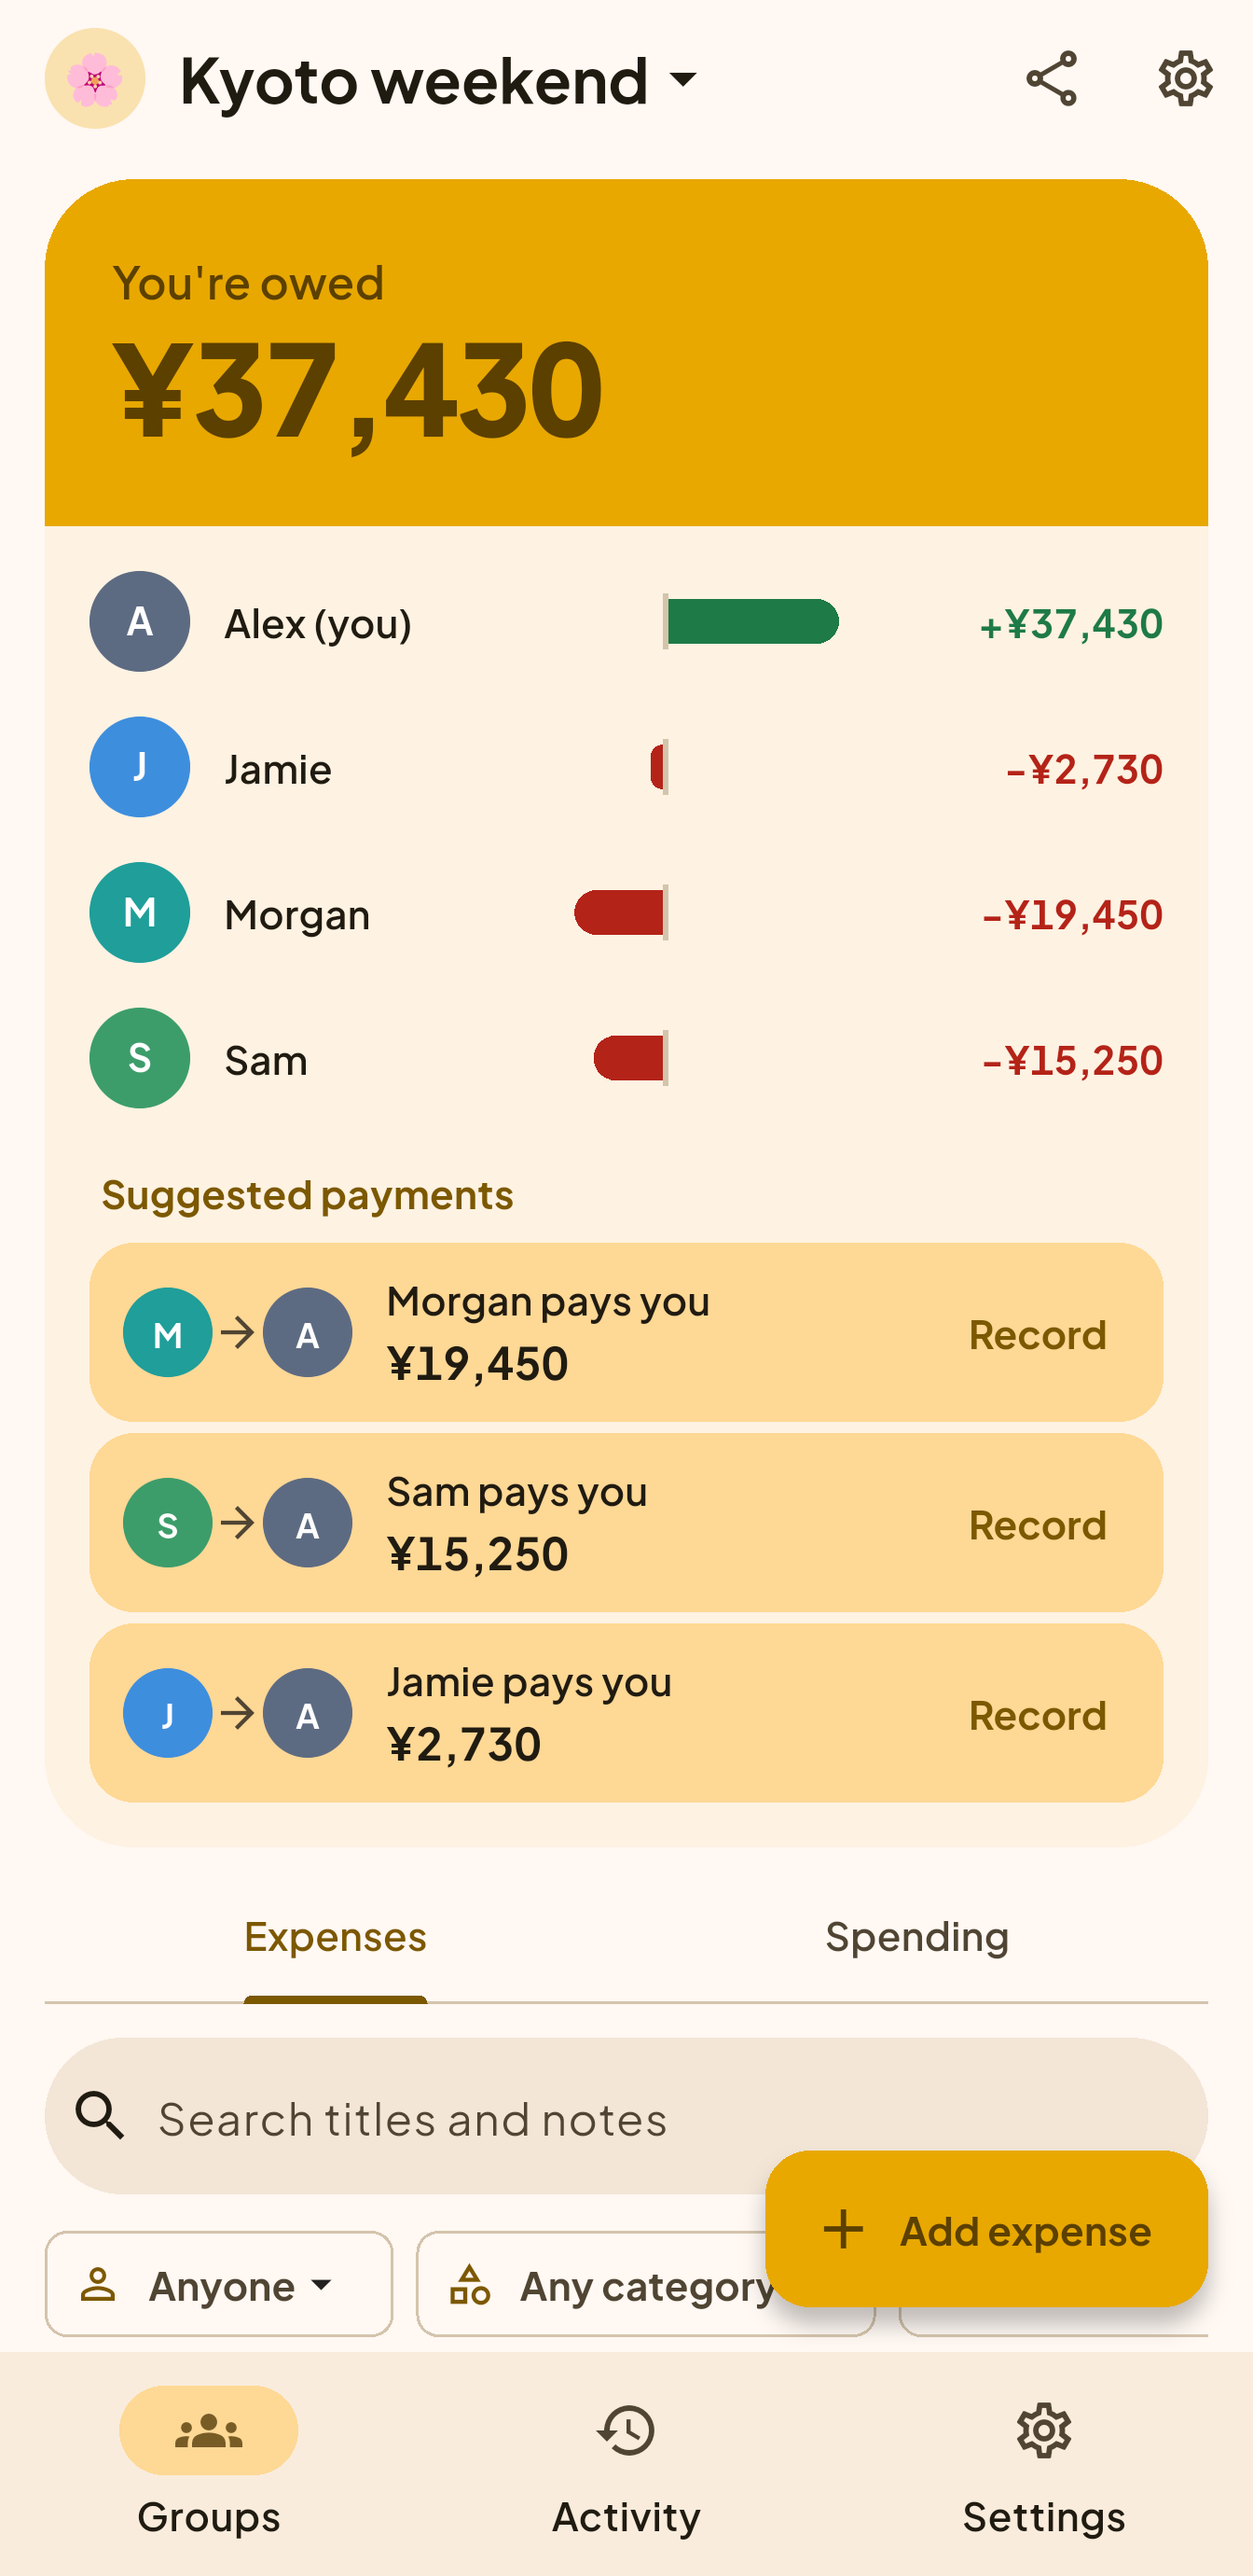
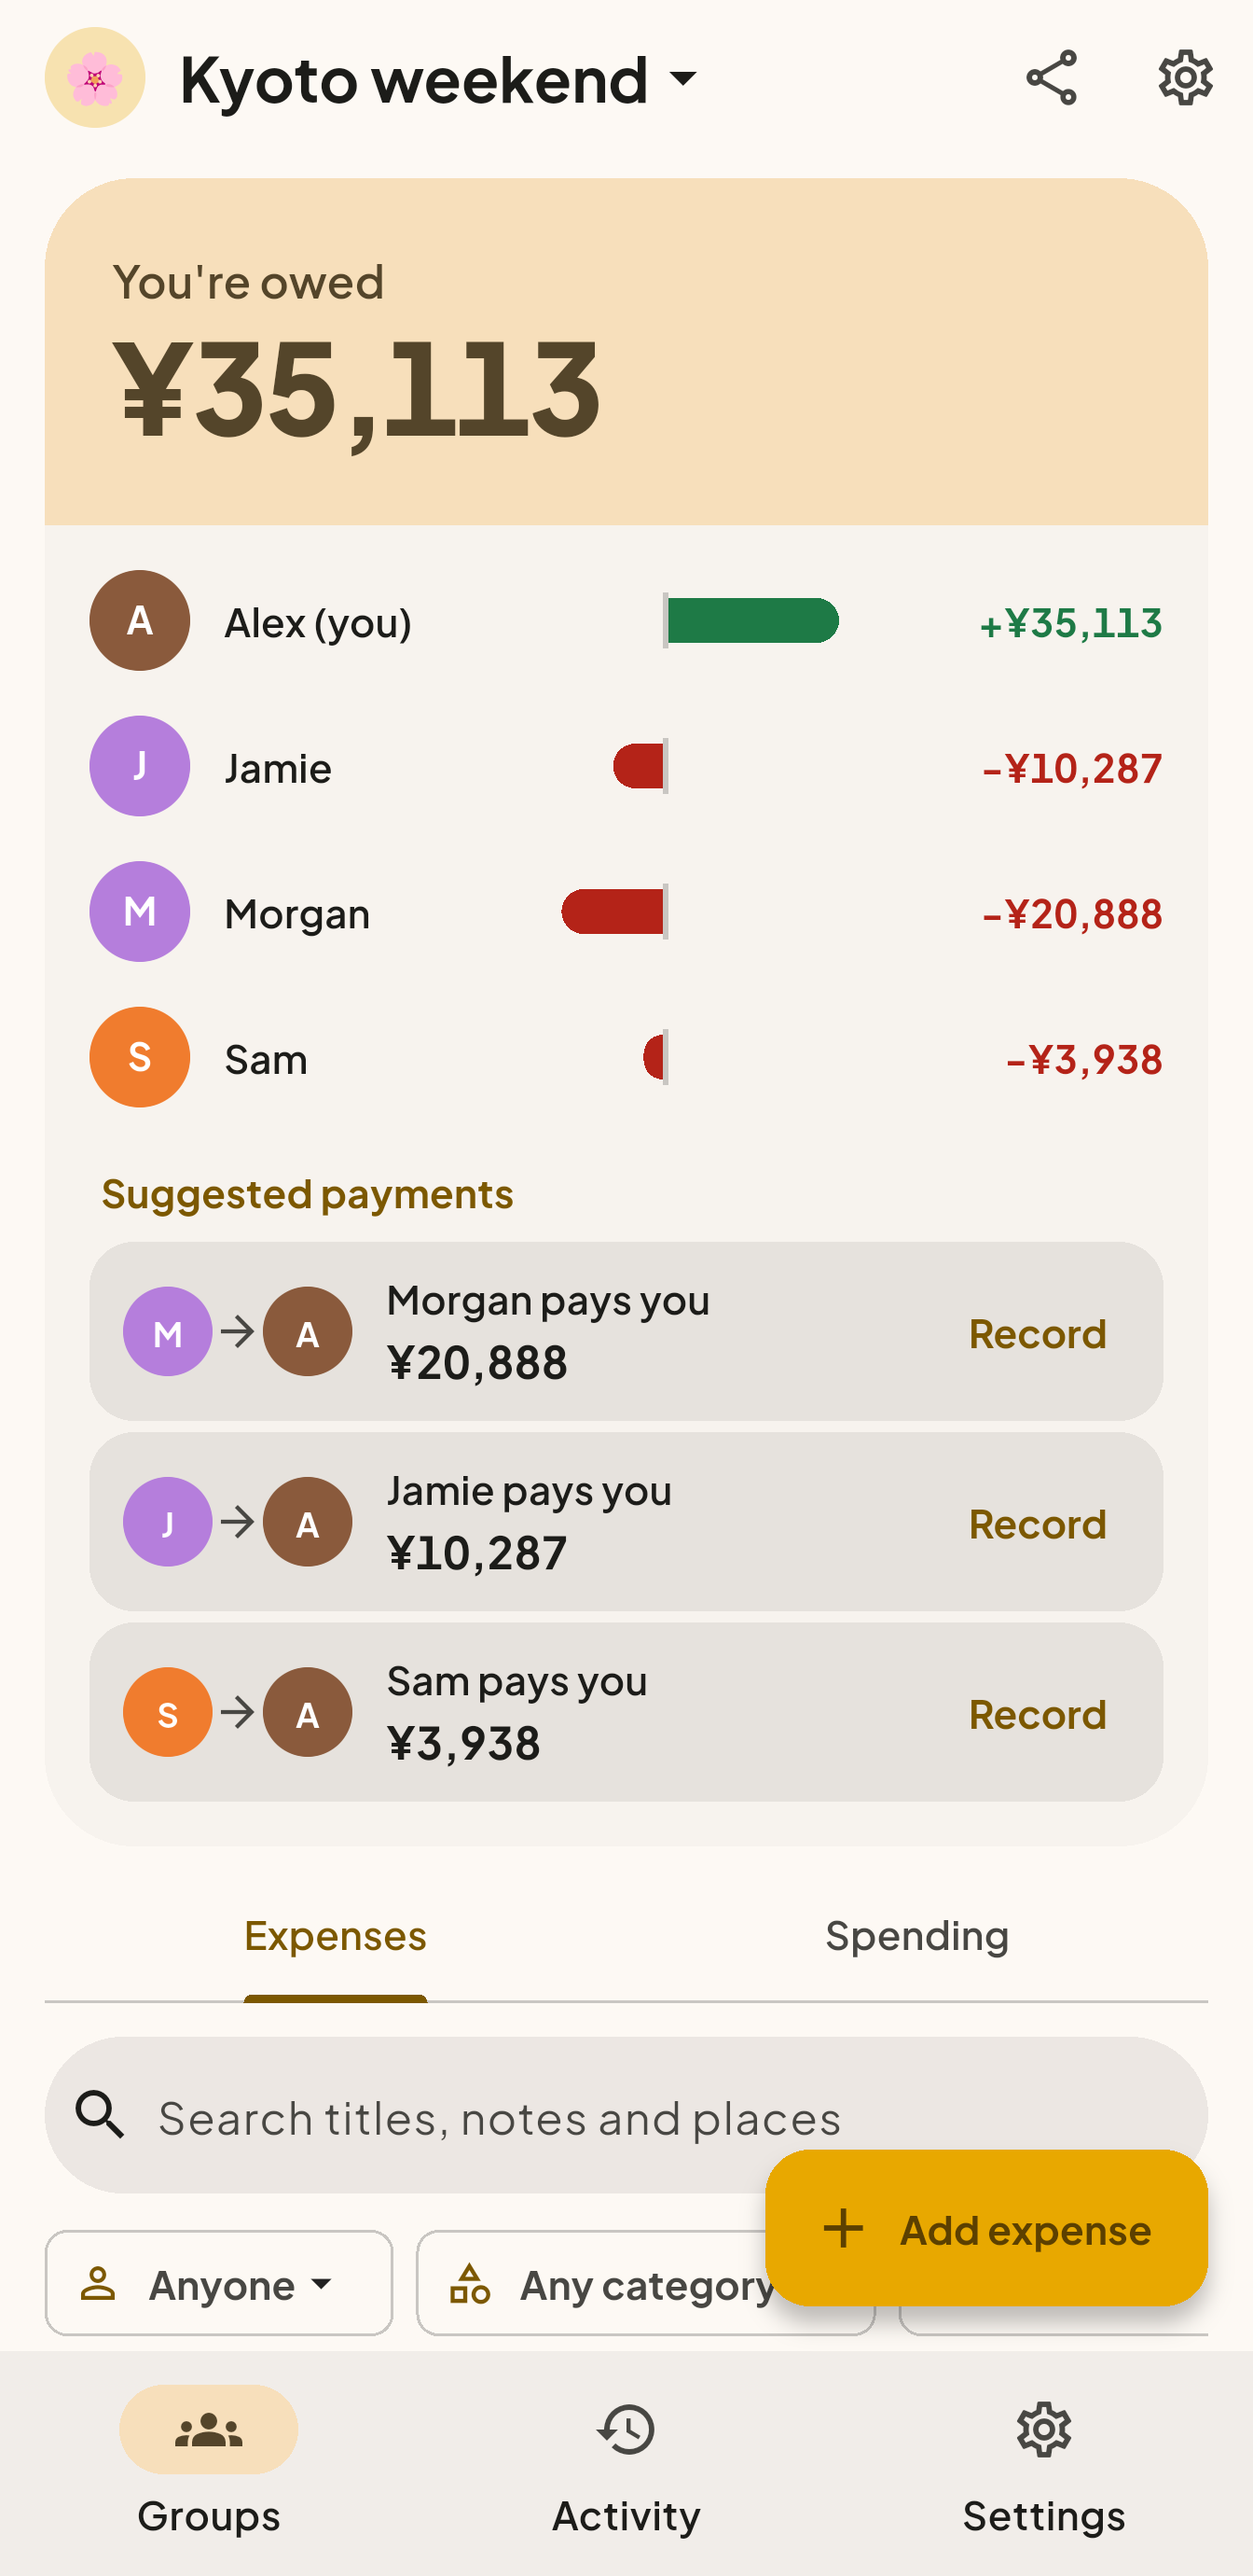
Refresh the README and its screenshots
Retake the Android screenshots from the current build, add one of an
expense paid in another currency, and group the features by what they
help with.

diff --git a/README.md b/README.md
@@ -1,62 +1,110 @@
 <p align="center">
-  <img src="app/web/icons/Icon-192.png" width="88" height="88" alt="Balnana logo">
+  <img src="app/web/icons/Icon-192.png" width="96" height="96" alt="Balnana logo">
 </p>
 
 <h1 align="center">Balnana</h1>
 
-<p align="center"><strong>Split group expenses. Settle up with fewer payments.</strong></p>
+<p align="center">
+  <strong>Split group expenses. Settle up with fewer payments.<br>On a server you own.</strong>
+</p>
 
-<p align="center">Android &amp; web · Self-hosted · AGPL-3.0</p>
+<p align="center">
+  <img src="https://img.shields.io/badge/Android-3DDC84?logo=android&logoColor=white" alt="Android">
+  <img src="https://img.shields.io/badge/Web-4285F4?logo=googlechrome&logoColor=white" alt="Web">
+  <img src="https://img.shields.io/badge/Self--hosted-Docker-2496ED?logo=docker&logoColor=white" alt="Self-hosted with Docker">
+  <a href="LICENSE"><img src="https://img.shields.io/badge/License-AGPL--3.0-E8A800" alt="AGPL-3.0"></a>
+  <img src="https://img.shields.io/badge/Status-early%20development-lightgrey" alt="Early development">
+</p>
 
-Balnana splits shared costs for trips, flatmates and nights out. Share a private
-link with your group, record who paid for what, and Balnana works out who owes
-whom and the payments that settle everyone up. You run it on your own server.
+<p align="center">
+  <a href="#quick-start">Quick start</a> ·
+  <a href="#features">Features</a> ·
+  <a href="#built-with">Built with</a> ·
+  <a href="#license">License</a>
+</p>
 
-> Status: early development, preparing the first release.
+---
+
+Trips, flatmates, nights out: someone always pays, and someone always has to
+work out who owes what. **Balnana does the maths.** Share a private link with
+your group, add expenses as they happen, and Balnana tells everyone where they
+stand and the few payments that settle it all.
+
+No ads, no tracking, no subscription and no one else's cloud. Your group's
+money stays on your server.
+
+> **Status:** early development, preparing the first release.
 
 ## A weekend in Kyoto
 
-Four friends, one weekend and ¥123,400 in shared costs. Every purchase is
-tracked, every balance is clear, and the statistics show where the money went.
+Four friends, three days and ¥130,750 in shared costs, from the guesthouse to
+a kimono rental booked in dollars. Here is how that looks in Balnana.
 
 <table>
   <tr>
-    <th>Keep track of expenses</th>
-    <th>See how to settle up</th>
-    <th>Explore your spending</th>
+    <th width="25%">Every expense in one place</th>
+    <th width="25%">Who owes whom, at a glance</th>
+    <th width="25%">Where the money went</th>
+    <th width="25%">Paid abroad? No problem</th>
   </tr>
   <tr>
-    <td><img src="assets/screenshots/expenses.png" width="260" alt="Kyoto weekend expense list with categorized meals, transport and activities"></td>
-    <td><img src="assets/screenshots/balances.png" width="260" alt="Alex is owed ¥37,430, with balances for four friends and three suggested payments"></td>
-    <td><img src="assets/screenshots/statistics.png" width="260" alt="Statistics for ¥123,400 across 12 expenses, broken down by category and member"></td>
+    <td><img src="assets/screenshots/expenses.png" alt="Kyoto weekend expense list showing places, times, who paid and who it was for"></td>
+    <td><img src="assets/screenshots/balances.png" alt="Alex is owed ¥35,113, with balances for four friends and three suggested payments"></td>
+    <td><img src="assets/screenshots/statistics.png" alt="¥130,750 spent across 13 expenses, broken down by category"></td>
+    <td><img src="assets/screenshots/foreign.png" alt="A $48.00 kimono rental converted to ¥7,350 at 153.125 yen to the dollar, split equally"></td>
   </tr>
 </table>
 
-Screenshots from the Android emulator, with made-up demo data.
+<sub>Screenshots from the Android emulator, with made-up demo data.</sub>
 
 ## Features
 
-- **Flexible splits.** Split equally, by exact amounts or by shares, with
-  several payers per expense. Record refunds and income as well as spending.
-- **Simple settling up.** Balnana suggests at most one payment fewer than the
-  number of people who owe or are owed, and the same balances always give the
-  same suggestions.
-- **Exact money.** Amounts are kept in the currency's smallest unit, such as
-  cents, never as floating point, so totals always add up.
-- **Spending abroad.** Enter an expense in the currency it was paid in, with
-  the rate or what it came to on a card statement. Balances stay in the
-  group's currency.
-- **Links or accounts.** In link mode, a group's private link is all anyone
-  needs. In accounts mode, people sign in with a password, Google or any number
-  of OpenID Connect providers, and can add or remove them in Settings.
-- **Live updates.** Open groups refresh as others add expenses, and phones get
+### Split it your way
+
+- **Equally, by exact amounts or by shares**, with several payers on one
+  expense when two people put their cards down.
+- **Refunds and income** count as well as spending.
+- **Recurring expenses** such as rent or subscriptions add themselves on
+  schedule.
+- **Places and receipts**: pin where an expense happened on a map and attach a
+  photo of the receipt.
+
+### Settle up with fewer payments
+
+- Balnana suggests **at most one payment fewer than the number of people who
+  owe or are owed**, and the same balances always give the same suggestions.
+- Record a suggested payment straight from the list once the money has
+  changed hands, and the balances update for everyone.
+
+### Built for travel
+
+- **Enter an expense in the currency it was paid in.** Type the rate, or what
+  it came to on your card statement. Balances stay in the group's currency.
+- **Exact money**: amounts are kept in the currency's smallest unit, never as
+  floating point, so totals always add up.
+- **Works on a bad connection**: saved groups and expenses still open while
+  the server is out of reach.
+
+### Easy to share
+
+- **Link mode**: a group's private link, or its QR code, is all anyone needs.
+  No sign-up.
+- **Accounts mode**: sign in with a password, Google or any number of OpenID
+  Connect providers.
+- **Live updates**: open groups refresh as others add expenses, and phones get
   push notifications over UnifiedPush, with no Firebase SDK in the app.
-- **Statistics, receipts and export.** See spending by category, member and
-  month, attach receipt photos, and export to CSV.
-- **Import from Settle Up.** Bring a group over from its CSV export with the
-  balances intact.
-- **Yours to run.** One Docker Compose file, a PostgreSQL database and a web
-  page for administering the server.
+
+### Know where the money went
+
+- Spending **by category, by member and by month**.
+- **Export to CSV**, and **import from Settle Up** with the balances intact.
+
+### Yours to run
+
+- One Docker Compose file, a PostgreSQL database and a web page for
+  administering the server.
+- A Material 3 app with light and dark themes and, if you like, your
+  wallpaper's colors.
 
 ## Quick start
 
@@ -74,8 +122,11 @@ administrator password, so do that right away. Every setting is listed in
 
 ## Built with
 
-A Go server (`server/`) backed by PostgreSQL, and a Flutter app (`app/`) for
-Android and the web. The API contract between them is `api/openapi.yaml`.
+| Part   | Stack                                                    |
+|--------|----------------------------------------------------------|
+| Server | Go, backed by PostgreSQL (`server/`)                     |
+| App    | Flutter, for Android and the web (`app/`)                |
+| API    | One OpenAPI contract between them (`api/openapi.yaml`)   |
 
 ## License
 
